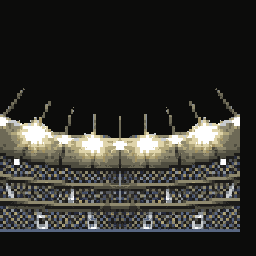
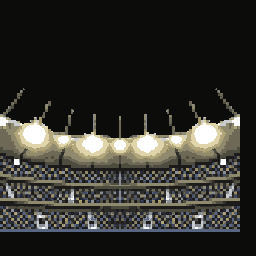
more title stuff

Changed region(s): [[0.0, 0.4688, 0.9375, 0.6562], [0.5, 0.7812, 0.5312, 0.8125], [0.4062, 0.7812, 0.4375, 0.8125]]

diff --git a/source/states/title.cpp b/source/states/title.cpp
@@ -11,11 +11,13 @@
 #include "sky.h"
 #include "stadium.h"
 #include "pitch.h"
+#include "title-text.h"
 
 void updateTitleVOFS(int vofs){
     REG_BG0VOFS = vofs;
     REG_BG1VOFS = vofs;
     REG_BG2VOFS = vofs > 256 ? vofs - 256 : 0;
+    REG_BG3VOFS = vofs;
 }
 
 GameState titleState(){
@@ -28,36 +30,55 @@ GameState titleState(){
     REG_BG0CNT = BG_BUILD(0, 16, 2, 0, 3, 0, 0); SBB_CLEAR(16); SBB_CLEAR(17);
     REG_BG1CNT = BG_BUILD(0, 18, 2, 0, 2, 0, 0); SBB_CLEAR(18); SBB_CLEAR(19);
     REG_BG2CNT = BG_BUILD(0, 20, 0, 0, 1, 0, 0); SBB_CLEAR(20);
-    REG_BG3CNT = BG_BUILD(0, 21, 0, 0, 0, 0, 0); SBB_CLEAR(21);
+    REG_BG3CNT = BG_BUILD(0, 21, 2, 0, 0, 0, 0); SBB_CLEAR(21); SBB_CLEAR(22);
 
     LZ77UnCompVram(skyPal, pal_bg_bank[0]);
     LZ77UnCompVram(skyTiles, tile_mem[0]);
     LZ77UnCompVram(skyMap, se_mem[16]);
     REG_BG0VOFS = 0;
 
-    LZ77UnCompVram(stadiumTiles, &tile_mem[0][379]);
+    LZ77UnCompVram(stadiumTiles, &tile_mem[0][340]);
     LZ77UnCompVram(stadiumMap, se_mem[19]);
     REG_BG1VOFS = 0;
 
-    LZ77UnCompVram(pitchTiles, &tile_mem[0][340]);
+    LZ77UnCompVram(pitchTiles, &tile_mem[0][563]);
     LZ77UnCompVram(pitchMap, se_mem[20]);
     REG_BG2VOFS = 0;
 
+    LZ77UnCompVram(title_textTiles, &tile_mem[0][602]);
+    LZ77UnCompVram(title_textMap, se_mem[22]);
+    REG_BG3VOFS = 0;
+
+    REG_BLDCNT = BLD_BUILD(BLD_BG3, BLD_BG0 | BLD_BG1 | BLD_BG2, 1);
+    REG_BLDALPHA = BLDA_BUILD(0, 31);
+    
     int vofs = 0;
+    int shrunkVOFS = 0;
     while(!key_hit(KEY_START)){
         //update backgrounds
-        int shrunkVOFS = vofs>>1;
-        if(shrunkVOFS < 352){
-            vofs++;
-        }
+        shrunkVOFS = vofs>>1;
+        vofs++;
+        if(shrunkVOFS == 352) break;
         updateTitleVOFS(shrunkVOFS);
         key_poll();
         VBlankIntrWait();
     }
 
+    key_poll();
+
     REG_BG0VOFS = 352;
     REG_BG1VOFS = 352;
     REG_BG2VOFS = 96;
+    REG_BG3VOFS = 352;
+
+    int blend = 0;
+    while(!key_hit(KEY_START)){
+        blend++;
+        REG_BLDALPHA = BLDA_BUILD(blend>>1, 31-(blend>>1));
+        if(blend>>1 == 31)break;
+        key_poll();
+        VBlankIntrWait();
+    }
 
     // make sure that if player skips
     // Title is set to look correctly
